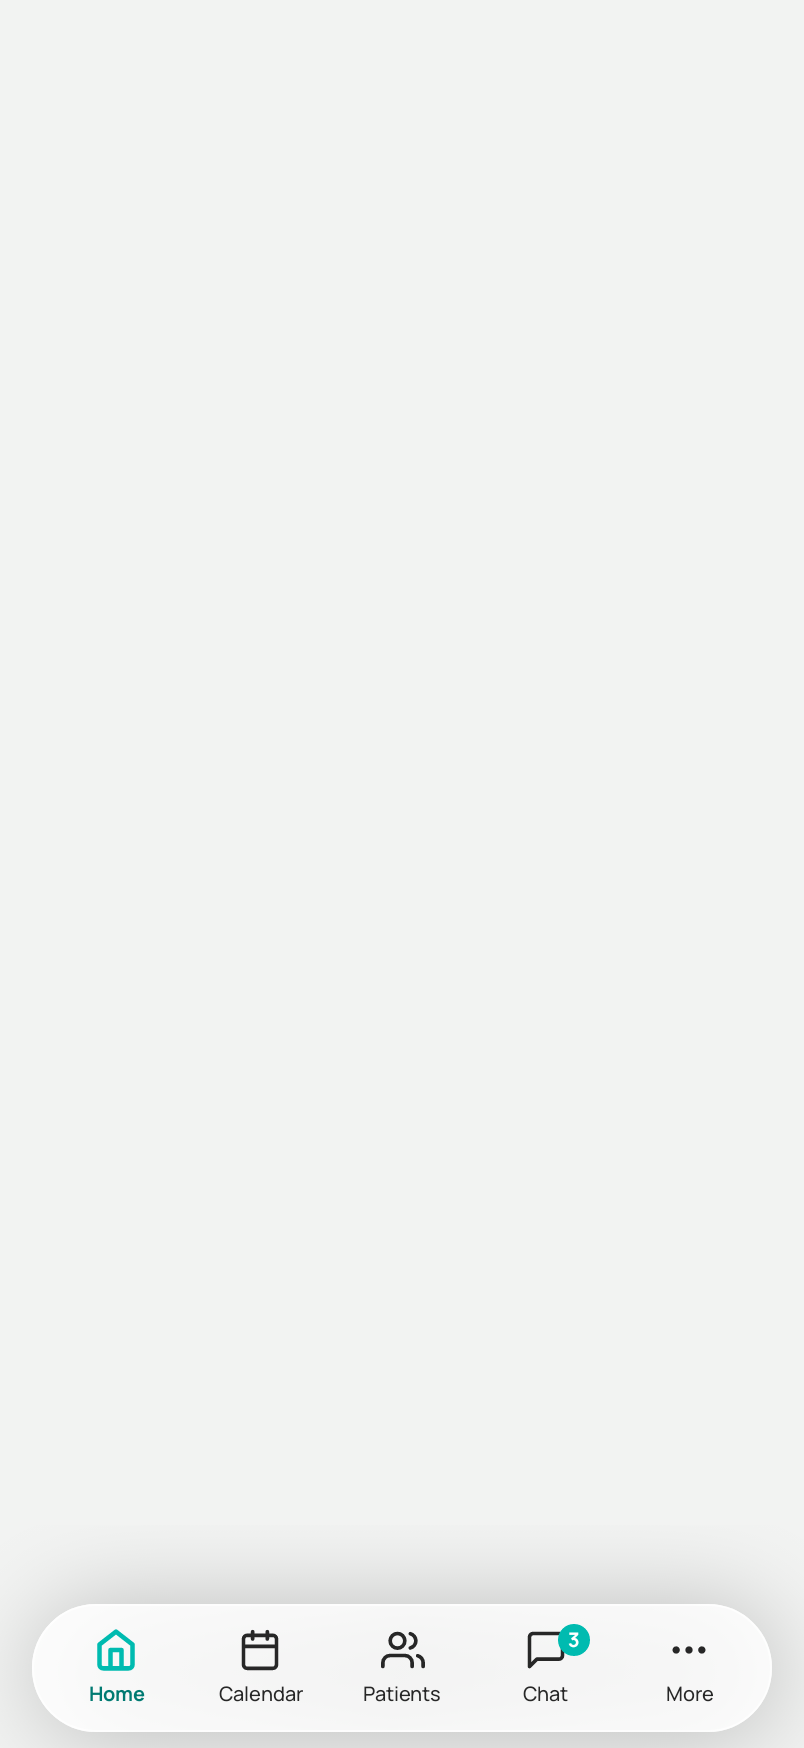
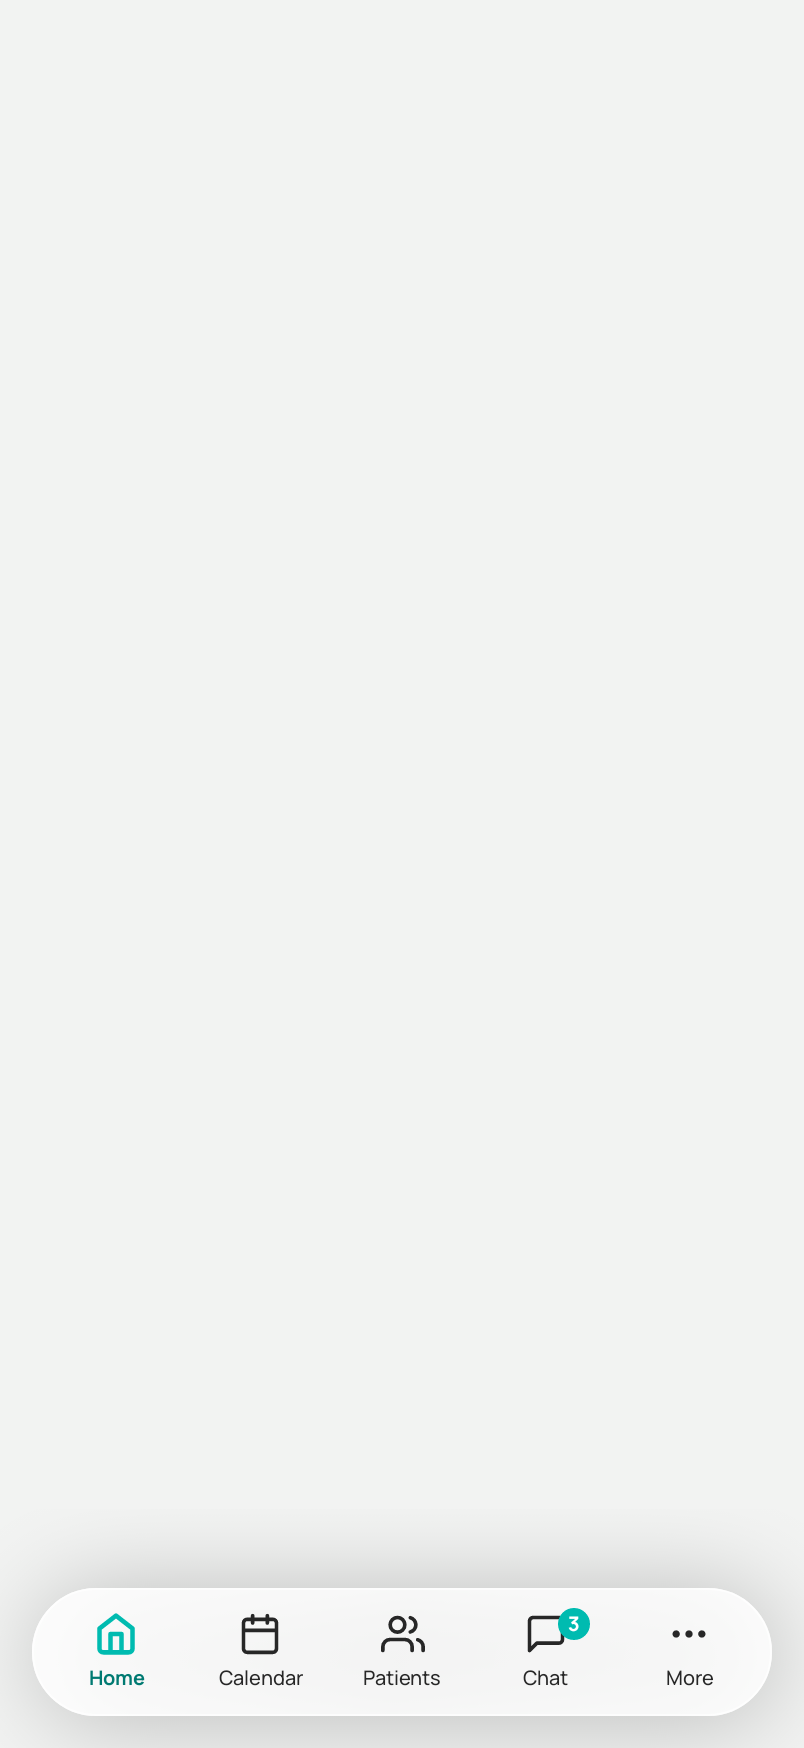
fix(shell): keep a gap above the system navigation bar

Changed region(s): [[0.0311, 0.8959, 0.9639, 1.0]]

diff --git a/composeApp/src/commonMain/kotlin/shifa/doctor/ui/navigation/MainScreen.kt b/composeApp/src/commonMain/kotlin/shifa/doctor/ui/navigation/MainScreen.kt
@@ -467,7 +467,13 @@ fun MainScreenContent(
                             Modifier
                                 .align(Alignment.BottomCenter)
                                 .navigationBarsPadding()
-                                .padding(horizontal = ShifaSpacing.Inset.Md, vertical = ShifaSpacing.Inset.Xs),
+                                // A clear gap above the system navigation bar (gesture handle, buttons, home indicator).
+                                .padding(
+                                    start = ShifaSpacing.Inset.Md,
+                                    end = ShifaSpacing.Inset.Md,
+                                    top = ShifaSpacing.Inset.Xs,
+                                    bottom = ShifaSpacing.Inset.Md,
+                                ),
                     )
                 }
             }

diff --git a/docs/implemented/README.md b/docs/implemented/README.md
@@ -433,3 +433,4 @@ Recorded so they are not re-litigated. IDs are from `17-master-plan.md` §3.
 - 2026-11-10 · DOCS-04 · Doctors rename, retype and delete documents they uploaded (BE-21).
 - 2026-11-10 · AUDIT · Security, speed and UX audit: https redirect, HSTS and a report-only CSP on the web; file URLs only on the backend's hosts; Intelligence chats leave the browser at session end; pinned CI actions; one tasks read for both counts, patients pages four at a time, start reads in parallel, pictures decoded off the UI thread and kept across re-signed URLs; clinic staff get their zone, no Forms tab, no dead New appointment; a scribe recording is no longer lost by leaving the visit; Enter sends and confirms on the web; feedback that sat off-screen (form editor, clinic sections) is in view. Not in the design: the "Discard recording?" question on leaving a visit, the label for patient files attached before a visit. Backend asks BE-39…43.
 - 2026-11-11 · TRACK · PostHog tracking complete on `feature/posthog-tracking` (stage A, B1–B9, review fixes); event catalogue generated from the code.
+- 2026-11-11 · SHELL · The phone's bottom bar keeps 16 dp above the system navigation bar (was 8).
